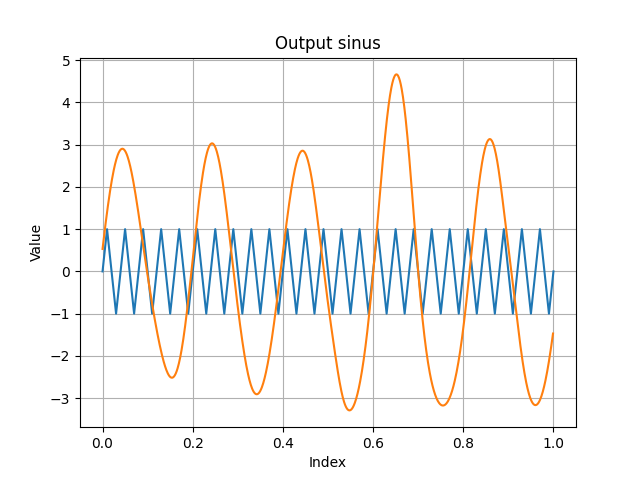
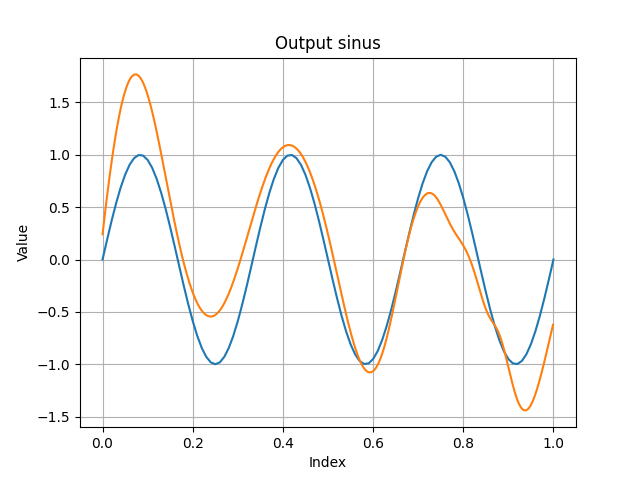
ploted some interesting stuff with hpo

diff --git a/examples/sinus/new_validation_plot.py b/examples/sinus/new_validation_plot.py
@@ -4,24 +4,7 @@ from matplotlib import pyplot as plt
 import numpy as np
 from pylab import *
 
-
-class DataPoint():
-    lr: float
-    beta: float
-    ld: int
-    af: str
-    validation: list[float]
-
-    def __init__(self, lr, beta, ld, af, validation) -> None:
-        self.lr = lr
-        self.beta = beta
-        self.validation = validation
-        self.ld = ld
-        self.af = af
-
-    def get_mean(self):
-        return np.mean(self.validation)
-
+from datapoint import DataPoint
 
 lrs = ['1E-2','5E-3','2E-3','1E-3','5E-4','1E-4','2E-4']
 betas = ['2E-2','5E-2','1E-0','1E-2','25E-2','5E-1']
@@ -38,12 +21,12 @@ def load_values(folder: str):
                     validation_values = []
                     for f in files:
                         validation_values.append(torch.load(f)[-1])
+                        # validation_values.append(min(torch.load(f)))
 
                     new_point = DataPoint(lr, beta, ld, af, validation_values)
                     points.append(new_point)
 
     return points
-
 
 # points = load_values("../../moppy/sinus_test/output")
 # torch.save(points, "data_points.pt")
@@ -52,18 +35,18 @@ points: list[DataPoint] = torch.load('data_points.pt')
 
 filtered = [p for p in points if p.af == 'relu' and p.beta == '2E-2']
 
-x = np.array([p.lr for p in filtered])
-y = np.array([p.ld for p in filtered])
+x = np.array([p.ld for p in filtered])
+y = np.array([p.lr for p in filtered])
 z = np.array([p.get_mean() for p in filtered])
 
 fig = plt.figure(figsize=(10, 10))
 ax = fig.add_subplot(111, projection='3d')
 ax.set_title("3D Heatmap")
-ax.set_xlabel('lr')
-ax.set_ylabel('beta')
+ax.set_xlabel('Latent dimention')
+ax.set_ylabel('Learning rate')
 ax.set_zlabel('validation')
 surf = ax.plot_trisurf(x, y, z, cmap=cm.coolwarm, linewidth=10)
 fig.colorbar(surf)
 
-plt.show()
+# plt.show()
 fig.savefig(f'./new_validation.png')

diff --git a/examples/sinus/plot_activation_functions.py b/examples/sinus/plot_activation_functions.py
@@ -1,0 +1,41 @@
+from matplotlib import pyplot as plt
+import torch
+from datapoint import DataPoint
+
+points: list[DataPoint] = torch.load('data_points.pt')
+print('Loaded')
+
+filtered = [p for p in points if p.lr == '2E-4' and p.beta == '2E-2']
+print('Filtered')
+
+def sort_func(p: DataPoint):
+    return p.ld
+
+filtered.sort(key=sort_func)
+
+plt.plot(
+    [float(p.ld) for p in filtered if p.af == 'relu'],
+    [p.get_mean() for p in filtered if p.af == 'relu'],
+    label="Relu"
+)
+
+plt.plot(
+    [float(p.ld) for p in filtered if p.af == 'sigmoid'],
+    [p.get_mean() for p in filtered if p.af == 'sigmoid'],
+    label="Sigmoid"
+)
+
+plt.plot(
+    [float(p.ld) for p in filtered if p.af == 'tanh'],
+    [p.get_mean() for p in filtered if p.af == 'tanh'],
+    label="Tanh"
+)
+
+plt.title('Activation functions')
+plt.xlabel('Latent dimention')
+plt.ylabel('Validation error')
+plt.grid(True)
+plt.legend(loc='upper center')
+
+# plt.show()
+plt.savefig('./activation_functions.png')

diff --git a/examples/sinus/datapoint.py b/examples/sinus/datapoint.py
@@ -1,0 +1,18 @@
+import numpy as np
+
+class DataPoint():
+    lr: float
+    beta: float
+    ld: int
+    af: str
+    validation: list[float]
+
+    def __init__(self, lr, beta, ld, af, validation) -> None:
+        self.lr = lr
+        self.beta = beta
+        self.validation = validation
+        self.ld = ld
+        self.af = af
+
+    def get_mean(self):
+        return np.mean(self.validation)

diff --git a/examples/sinus/print_sinus.py b/examples/sinus/print_sinus.py
@@ -27,7 +27,7 @@ def get_sin_trajectory(amplitude, frequency):
     return traj
 
 
-traj = get_sin_trajectory(1, 25)
+traj = get_sin_trajectory(1, 3)
 
 mu, sigma = encoder.encode_to_latent_variable(traj)
 print(f"mu: {mu}")
